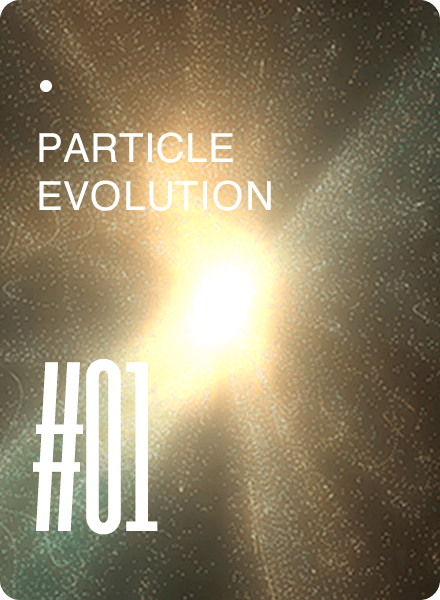
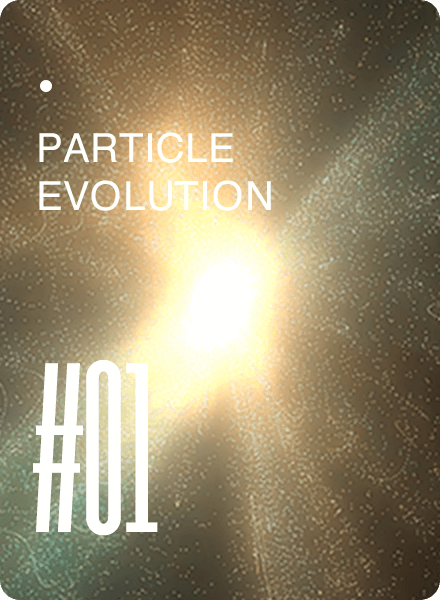
fix: archive

diff --git a/pages/archive.vue b/pages/archive.vue
@@ -19,17 +19,18 @@
             <span class="archive-fulltitle">{{ archive.fullTitle }}</span>
             <span class="archive-shorttitle">#{{ sortNumber(index) }}</span>
           </span> -->
-          <!-- <img
+          <img
             class="archive-img"
             :src="`/images/${archive.image}`"
             width="440"
             height="680"
             :alt="`${archive.fullTitle}`"
-          /> -->
+          />
         </a>
       </li>
     </ul>
-    <div ref="ArchiveCanvas" class="archive-canvas"></div>
+    <div ref="ArchiveCanvas" class="archive-canvas" style="display: none;opacity: 0"></div>
+    <div ref="ArchiveCover" class="archive-cover"></div>
   </div>
 </template>
 
@@ -80,7 +81,10 @@ export default {
     openningEnd: function () {
       // update
       this.setWrapPosition()
-      this.$gsap.ticker.add(this.updatePosition)
+       setTimeout(()=>{
+          this.$gsap.ticker.add(this.updatePosition)
+          this.onOpening()
+        },100)
 
       setTimeout(() => {
         // スクロール可能にする
@@ -102,12 +106,16 @@ export default {
 
         // update
         this.setWrapPosition()
-        this.$gsap.ticker.add(this.updatePosition)
+        setTimeout(()=>{
+          this.raf = this.$gsap.ticker.add(this.updatePosition)
+          this.onOpening()
+        },100)
       }
     },
   },
 
   mounted() {
+    this.raf = null
     // init
     this.medias = []
     for (let i = 0; i < this.$refs.ArchiveItem.length; i++) {
@@ -119,7 +127,11 @@ export default {
       }
     }
 
+    this.isOpenningEnd = false
     this.isDown = false
+    this.opOffset = {
+      value: window.innerHeight * 1.5,
+    }
     this.x = {
       start: 0,
       end: 0,
@@ -135,7 +147,7 @@ export default {
       end: 0,
       distance: 0,
       allDistance: 0,
-      target: 0,
+      target: -this.opOffset.value,
       current: 0,
       lerp: 0.075,
       direction: '',
@@ -180,20 +192,6 @@ export default {
     })
 
     this.$nextTick(() => {
-      // events
-      window.addEventListener('resize', this.onResize)
-      window.addEventListener('resize', this.setWrapPosition)
-      window.removeEventListener('wheel', preEvent, { passive: false })
-      window.addEventListener('mousedown', this.onTouchDown)
-      window.addEventListener('mousemove', this.onTouchMove)
-      window.addEventListener('mouseup', this.onTouchUp)
-      window.addEventListener('touchstart', this.onTouchDown)
-      window.addEventListener('touchmove', this.onTouchMove)
-      window.addEventListener('touchend', this.onTouchUp)
-      window.addEventListener('wheel', this.onMouseWheel)
-      window.addEventListener('keyup', this.onKeyUp)
-      window.addEventListener('keydown', this.onKeyDown)
-
       const images = document.querySelectorAll('.archive img')
       const imagesLoaded = ImagesLoaded(images)
 
@@ -223,23 +221,36 @@ export default {
     window.removeEventListener('keyup', this.onKeyUp)
     window.removeEventListener('keydown', this.onKeyDown)
     this.$gsap.ticker.remove(this.updatePosition)
+    // this.$refs.ArchiveCanvas.style.display = 'none'
+    //   this.$refs.ArchiveCanvas.style.opacity = 0
+    this.stage._destroy()
+    this.stage = null
+    for (let i = 0; i < this.medias.length; i++) {
+      this.meshArray[i]._destroy()
+      this.meshArray[i] = null
+    }
+    this.glElements = null
+this.$refs.ArchiveCanvas.remove()
     this.$preDefaultEvent(false)
     this.$asscroll.disable()
     this.$store.commit('imageLoaded/init')
-
   },
 
   methods: {
     setWrapPosition() {
       this.wrapperRect = this.wrapper.getBoundingClientRect()
 
-      if (this.width !== window.innerWidth) {
-        this.width = window.innerWidth
+      // if (this.width !== window.innerWidth) {
+      //   this.width = window.innerWidth
 
         const x = window.innerWidth / 2.0 - this.wrapperRect.width / 2.0
         const y = window.innerHeight / 2.0 - this.wrapperRect.height / 2.0
-        this.wrapper.style.transform = `translate(${x}px, ${y}px)`
-      }
+        this.$gsap.set(this.wrapper,{
+          x: x,
+          y: y
+        })
+        // this.wrapper.style.transform = `translate(${x}px, ${y}px)`
+      // }
     },
     updatePosition() {
       if (this.hambergerMenuState) return
@@ -271,34 +282,40 @@ export default {
       this.save.y = this.y.current
 
       for (let i = 0; i < this.medias.length; i++) {
-        const rect = this.medias[i].elm.getBoundingClientRect()
+        if (this.isOpenningEnd) {
+          const rect = this.medias[i].elm.getBoundingClientRect()
 
-        if (this.x.direction === 'right' && rect.left < -rect.width) {
-          this.medias[i].extra.x += this.wrapperRect.width
-        } else if (
-          this.x.direction === 'left' &&
-          window.innerWidth < rect.left
-        ) {
-          this.medias[i].extra.x -= this.wrapperRect.width
-        }
+          if (this.x.direction === 'right' && rect.left < -rect.width) {
+            this.medias[i].extra.x += this.wrapperRect.width
+          } else if (
+            this.x.direction === 'left' &&
+            window.innerWidth < rect.left
+          ) {
+            this.medias[i].extra.x -= this.wrapperRect.width
+          }
 
-        if (this.y.direction === 'top' && window.innerHeight < rect.top) {
-          this.medias[i].extra.y -= this.wrapperRect.height
-        } else if (this.y.direction === 'bottom' && rect.top < -rect.height) {
-          this.medias[i].extra.y += this.wrapperRect.height
+          if (this.y.direction === 'top' && window.innerHeight < rect.top) {
+            this.medias[i].extra.y -= this.wrapperRect.height
+          } else if (this.y.direction === 'bottom' && rect.top < -rect.height) {
+            this.medias[i].extra.y += this.wrapperRect.height
+          }
         }
 
         this.medias[i].elm.style.transform = `translate(${
           -this.x.current + this.medias[i].extra.x
-        }px, ${-this.y.current + this.medias[i].extra.y}px)`
+        }px, ${
+          -this.y.current + this.medias[i].extra.y + this.opOffset.value
+        }px)`
       }
 
       // webgl
       this.stage.onRaf()
       this.glElements.onResize()
       for (let i = 0; i < this.medias.length; i++) {
-        const strengthX = ((this.x.current - this.x.target) / window.innerWidth ) * 1.8;
-        const strengthY = ((this.y.current - this.y.target) / window.innerWidth ) * 1.8;
+        const strengthX =
+          ((this.x.current - this.x.target) / window.innerWidth) * 1.8
+        const strengthY =
+          ((this.y.current - this.y.target) / window.innerWidth) * 1.8
         const rotateValue = (strengthX + strengthY) / 16.0
         this.meshArray[i]._setStrength(strengthX, strengthY)
         this.meshArray[i]._setRotate(rotateValue)
@@ -411,6 +428,42 @@ export default {
         }
       }
     },
+    onOpening() {
+      this.$refs.ArchiveCanvas.style.display = 'block'
+      this.$refs.ArchiveCanvas.style.opacity = 1.0
+      this.$refs.ArchiveCanvas.style.zIndex = 1.0
+      this.$refs.ArchiveCover.style.opacity = 0
+
+
+      this.$gsap.to(this.opOffset, {
+        duration: this.$SITECONFIG.baseDuration,
+        delay: 0.2,
+        ease: this.$EASING.transform,
+        value: 0,
+        onUpdate: () => {
+          this.y.target = -this.opOffset.value
+        },
+        onComplete: () => {
+          this.isOpenningEnd = true
+
+          // events
+          setTimeout(() => {
+            window.addEventListener('resize', this.onResize)
+            window.addEventListener('resize', this.setWrapPosition)
+            window.removeEventListener('wheel', preEvent, { passive: false })
+            window.addEventListener('mousedown', this.onTouchDown)
+            window.addEventListener('mousemove', this.onTouchMove)
+            window.addEventListener('mouseup', this.onTouchUp)
+            window.addEventListener('touchstart', this.onTouchDown)
+            window.addEventListener('touchmove', this.onTouchMove)
+            window.addEventListener('touchend', this.onTouchUp)
+            window.addEventListener('wheel', this.onMouseWheel)
+            window.addEventListener('keyup', this.onKeyUp)
+            window.addEventListener('keydown', this.onKeyDown)
+          }, 100)
+        },
+      })
+    },
   },
 }
 </script>
@@ -421,6 +474,17 @@ $gap-sp: 26px;
 
 .archive {
   background-color: $darkBlack;
+}
+
+.archive-cover{
+  position: absolute;
+  top: 0;
+  left: 0;
+  width: 100%;
+  height: 100%;
+  background-color: $darkBlack;
+  z-index: 100;
+  pointer-events: none;
 }
 
 .archive * {
@@ -437,6 +501,7 @@ $gap-sp: 26px;
   padding: $gap * 0.5;
   box-sizing: content-box;
   z-index: 1;
+  // transform: translate(0, 9999px);
 
   @include sp() {
     grid-template-columns: repeat(auto-fit, #{vw_sp(352)});
@@ -453,6 +518,8 @@ $gap-sp: 26px;
   height: vw(300);
   border-radius: 6px;
   overflow: hidden;
+  transform: translate(0, 9999px);
+  opacity: 0;
 
   @include sp() {
     width: vw_sp(352);
@@ -551,16 +618,19 @@ $gap-sp: 26px;
   height: 100%;
   object-fit: cover;
   object-position: center;
-  transform: scale(1.05);
+  opacity: 0;
+  pointer-events: none;
 }
 
 .archive-canvas {
-  // opacity: 0;
+  display: none;
+  opacity: 0;
   position: fixed;
   top: 0;
   left: 0;
   width: 100%;
   height: 100%;
   pointer-events: none;
+  z-index: -1;
 }
 </style>

diff --git a/components/canvas/archive/mesh.js b/components/canvas/archive/mesh.js
@@ -10,7 +10,6 @@ export default class Mesh {
     this.config = config;
 
     this.elements = elementOption;
-    console.log(this.elements)
     this.meshSize = {
       x: this.elements.width,
       y: this.elements.height,
@@ -23,6 +22,8 @@ export default class Mesh {
       heightSegments: 32.0
     };
     this.mesh = null;
+
+    this.texture = new THREE.TextureLoader().load(this.elements.img)
 
     this.windowWidth = 0;
     this.windowHeight = 0;
@@ -63,7 +64,7 @@ export default class Mesh {
       uniforms: {
         u_texture: {
           type: "t",
-          value: new THREE.TextureLoader().load(this.elements.img)
+          value: this.texture
         },
         u_meshsize: {
           type: "v2",
@@ -80,8 +81,13 @@ export default class Mesh {
         u_strength: {
           type: "v2",
           value: { x: 0, y: 0},
+        },
+        u_alpha: {
+          type: "f",
+          value: 0,
         }
       },
+      transparent: true
     });
     this.mesh = new THREE.Mesh(this.geometry, this.material);
     this.stage.scene.add(this.mesh);
@@ -114,7 +120,10 @@ export default class Mesh {
   }
 
   _destroy() {
-    //
+    this.stage.scene.remove(this.mesh);
+    this.texture.dispose();
+    this.geometry.dispose();
+    this.material.dispose();
   }
 
   onResize() {
